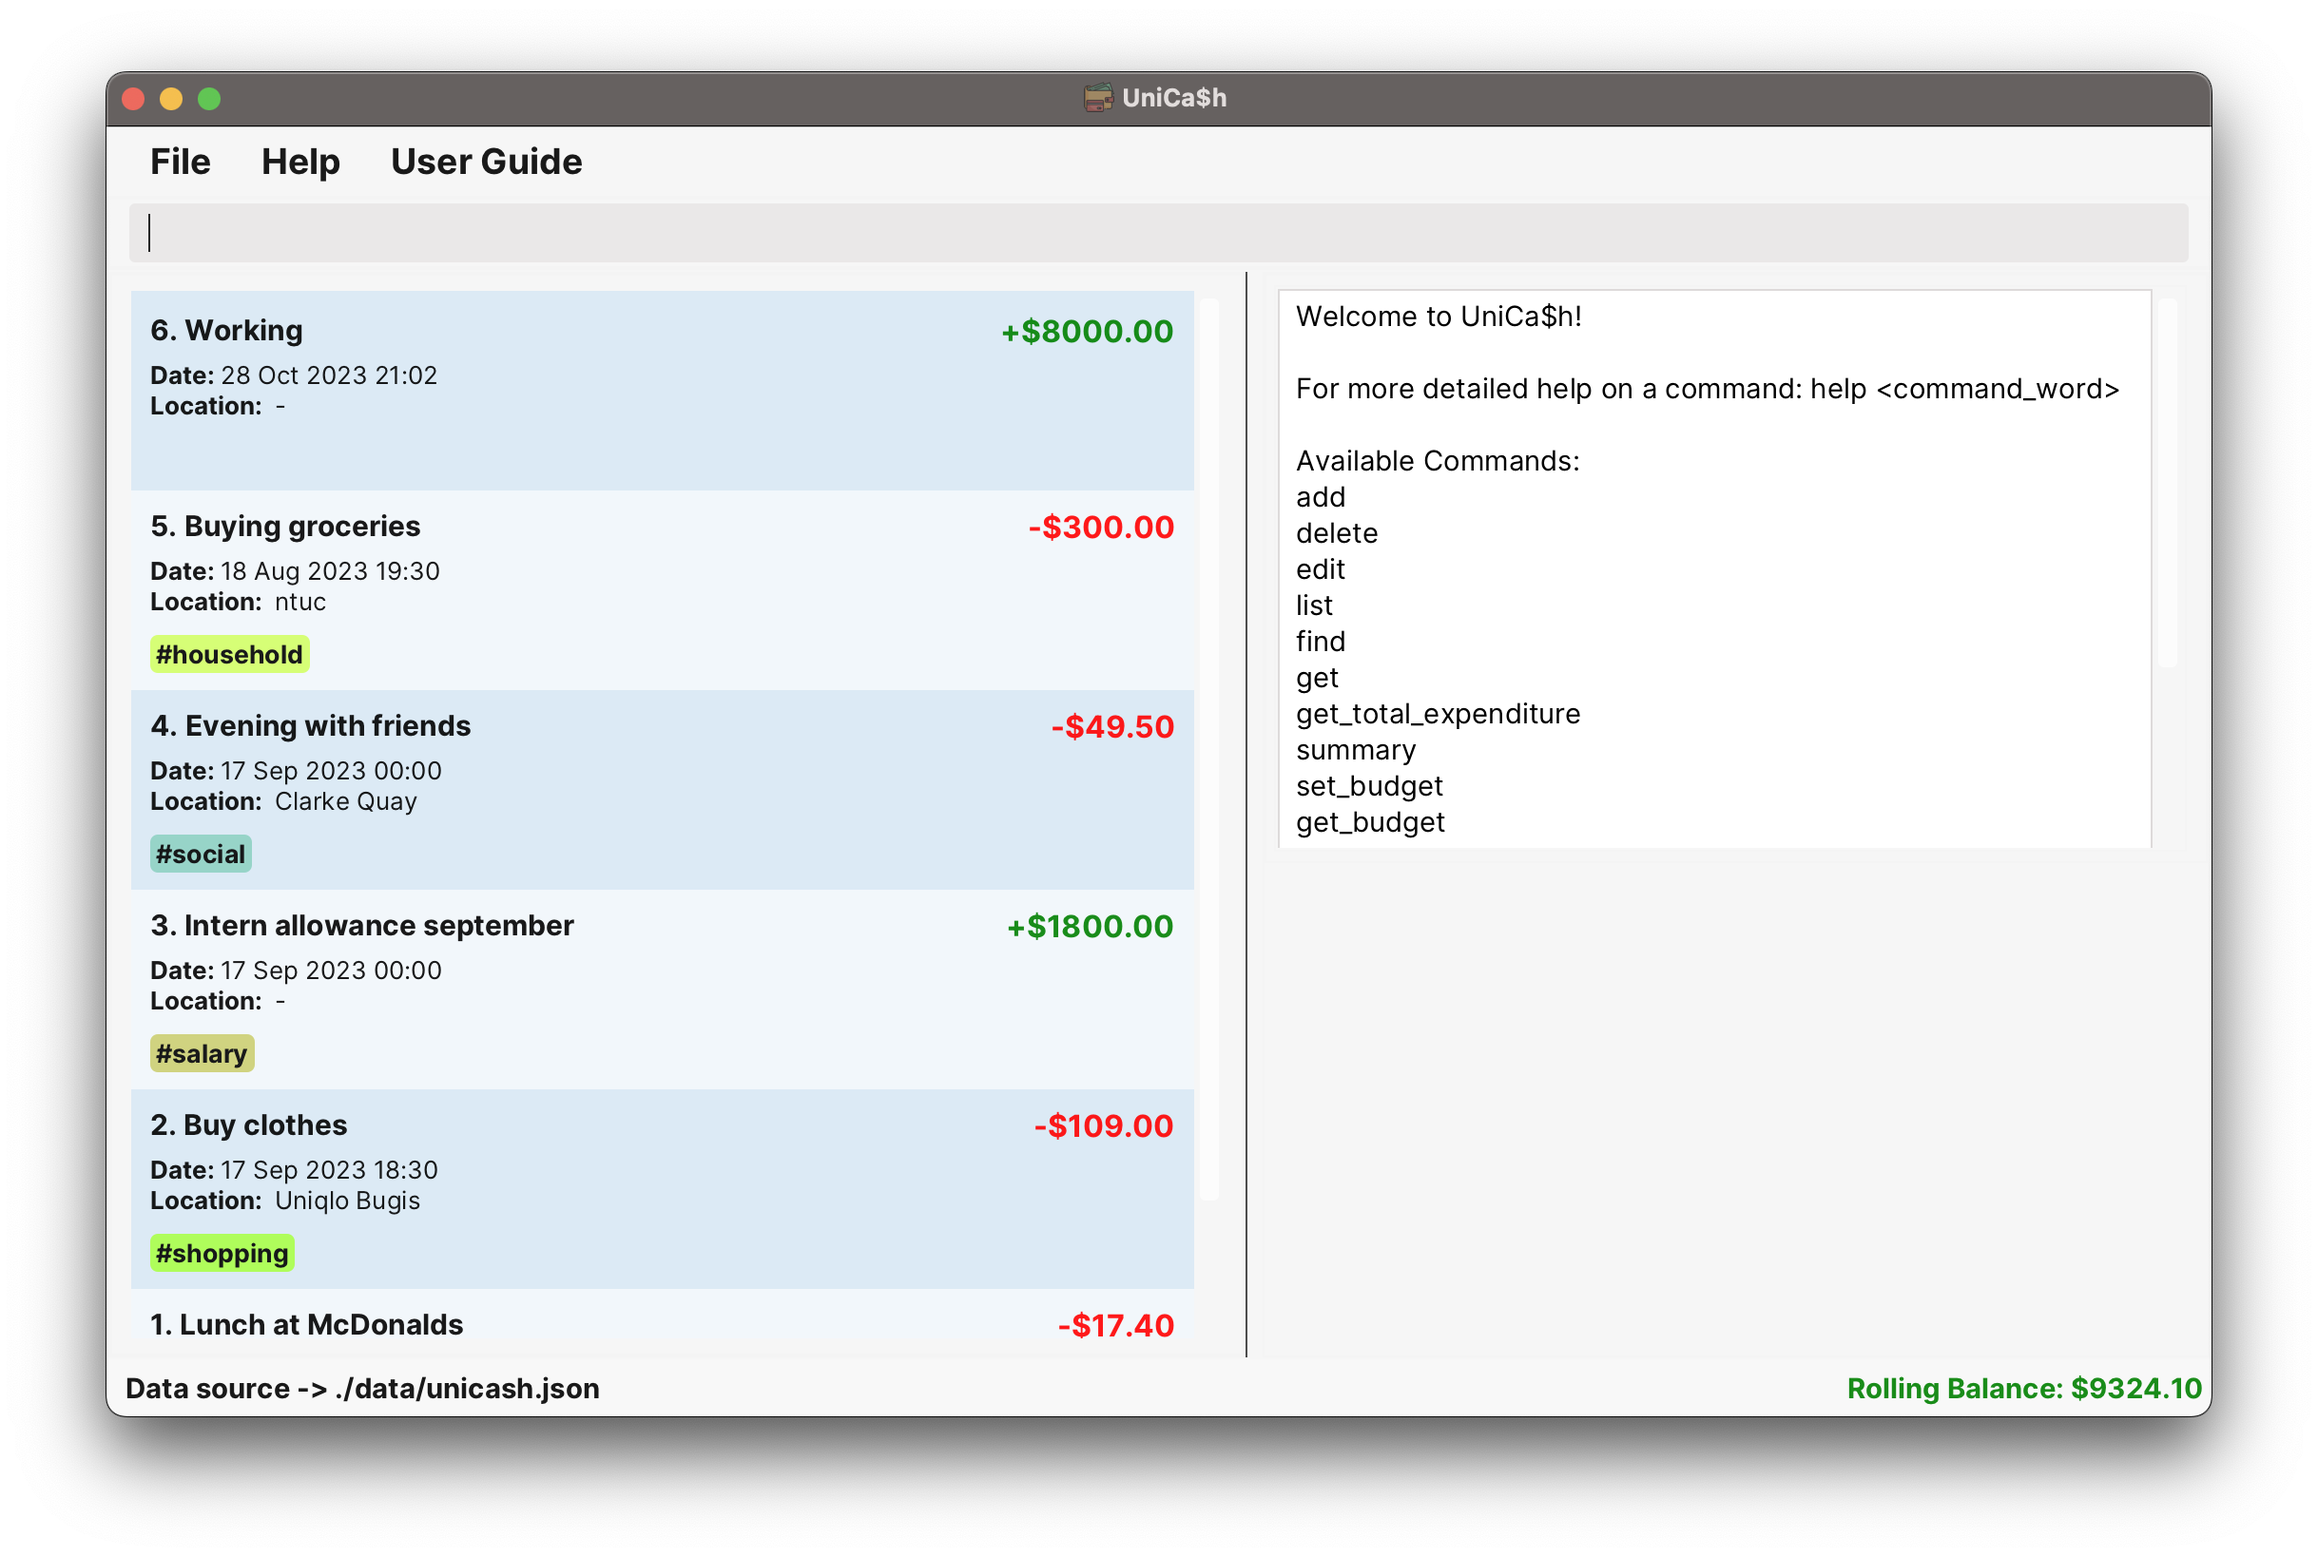
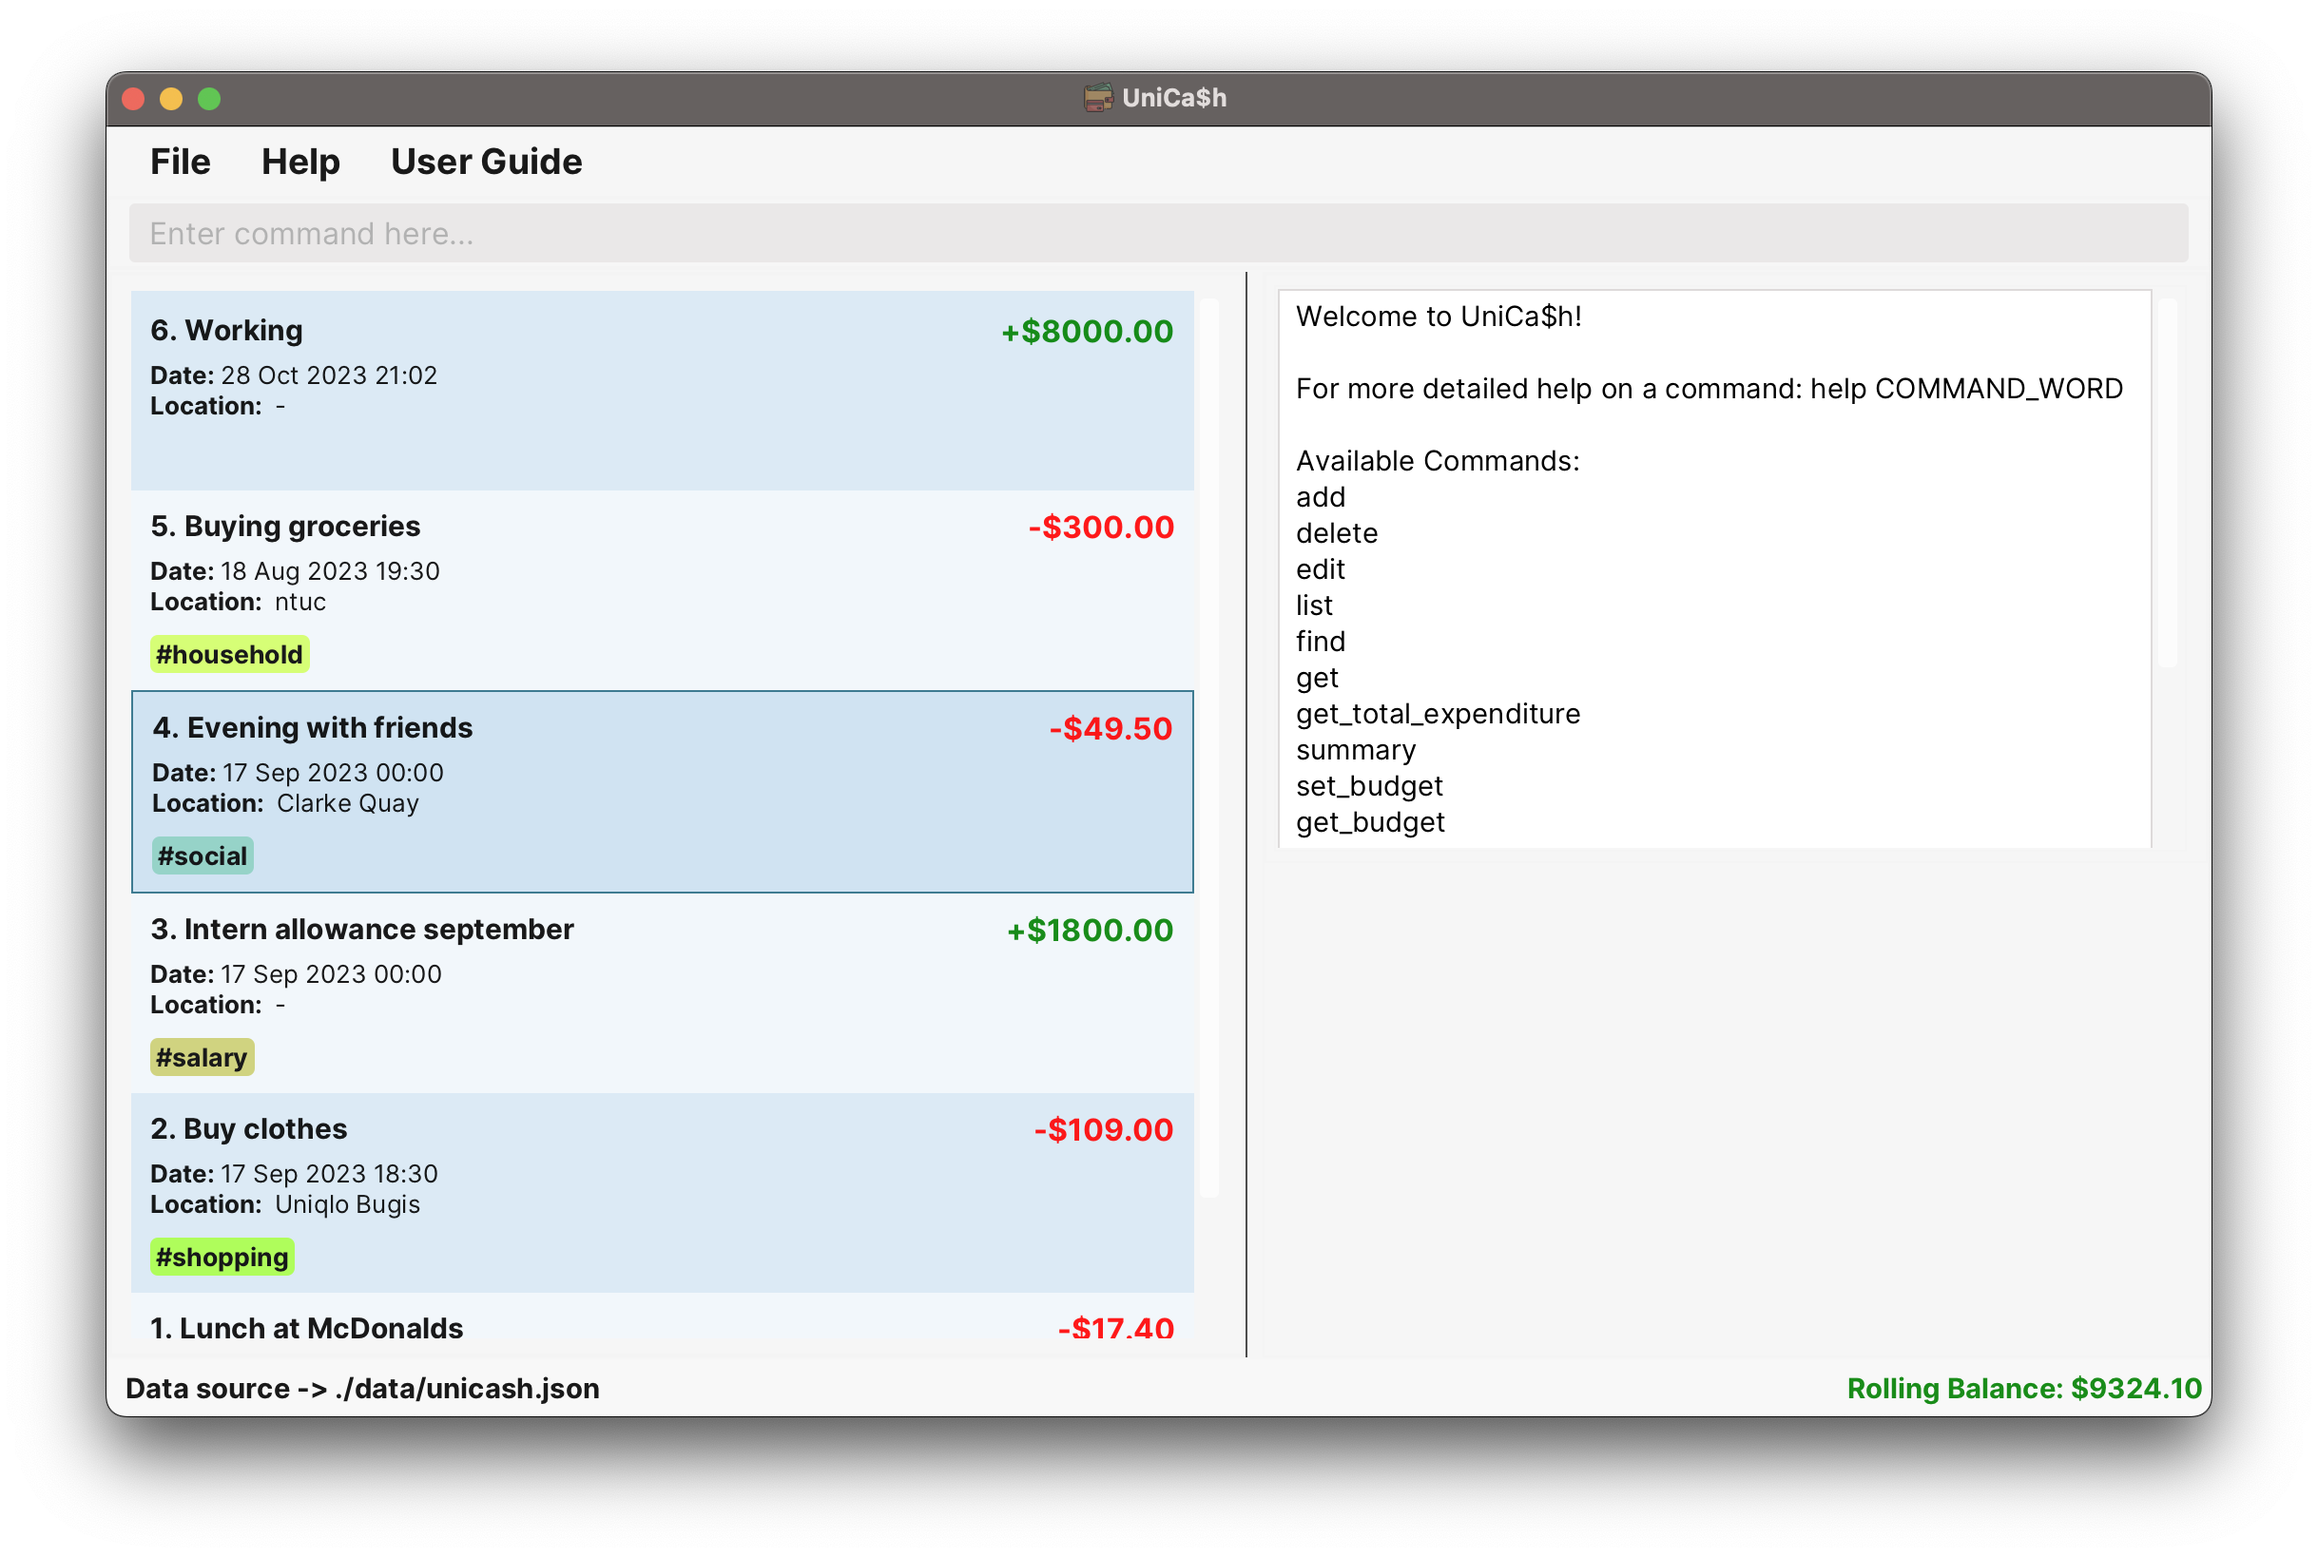
Update image

diff --git a/docs/UserGuide.md b/docs/UserGuide.md
@@ -1435,7 +1435,7 @@ containing a link to our User Guide.
 > ```
 > Welcome to UniCa$h!
 > 
-> For more detailed help on a command: help <command_word>
+> For more detailed help on a command: help COMMAND_WORD
 >
 > Available Commands:
 > add
